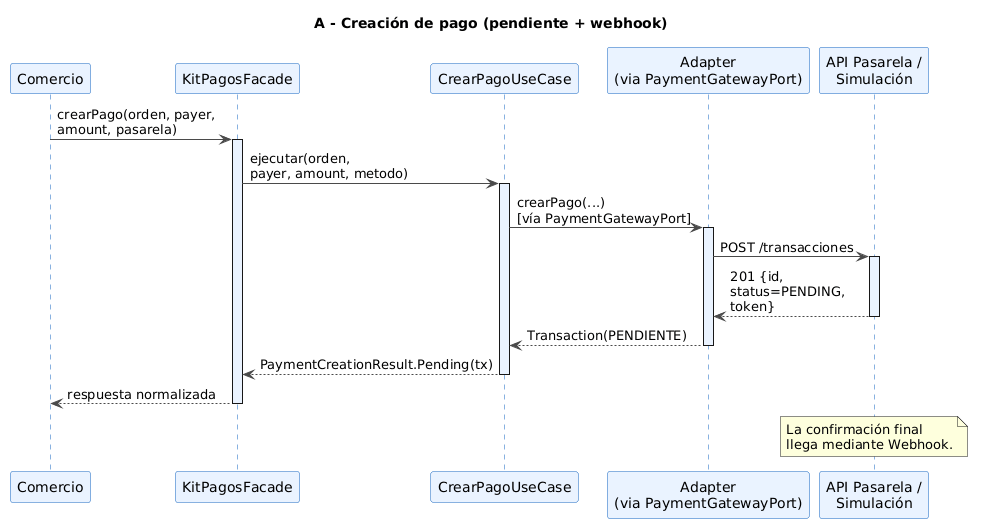
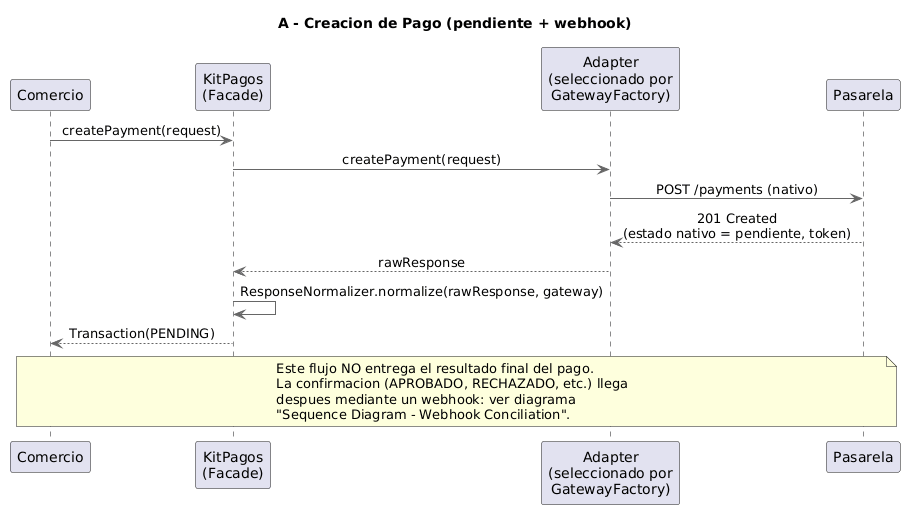
docs(architecture): regenerate stale SDK diagrams and log SAD gaps
Regenerate the hexagonal class diagram and the three SDK sequence
diagrams with PlantUML, replacing an obsolete design (CrearPagoUseCase,
WebhookController, KitPagosFacade, Order, Money, EstadoTransaccion)
that no longer matches sections 9 and 15 of the SAD or the current
Component/Domain Class diagrams. Keep the .puml sources under
diagrams-source/ so future edits don't require touching binary PNGs.
Add sad-inconsistencies.md, a running log of every discrepancy found
between SAD sections, SAD diagrams, and the codebase during the full
architecture review, with resolution status for each and what still
needs correcting in the source SAD document itself.
Sync layers-and-components.md and ubiquitous-language.md with the
decisions recorded there (facade method names, WebhookEvent, lean
SdkError shape, Transaction immutability).

diff --git a/docs/architecture/ubiquitous-language.md b/docs/architecture/ubiquitous-language.md
@@ -5,6 +5,8 @@
 > **Clasificación:** Documento técnico oficial. Fuente de verdad para adaptadores, contratos de interfaz y modelo de dominio.  
 > **Fuentes:** Documentación oficial de Wompi, PayU Latam, Mercado Pago y Kushki (Colombia).  
 > **Nota de integridad:** Los campos marcados como `N/A` indican ausencia documentada en la fuente oficial consultada. Los campos marcados como `⚠ PENDIENTE` requieren verificación directa en páginas cuyo contenido no fue recuperable por renderizado JavaScript.
+>
+> **Nota de vigencia:** Este documento se escribió antes de la reestructuración del dominio del SDK (ver `layers-and-components.md`). Los nombres de archivo de contrato citados en cada sección (`IRequestCrearPago.ts`, `IWebhookPayload.ts`, etc.) son conceptuales y no corresponden a archivos reales del repositorio; el contrato vigente es `src/application/ports/PaymentGatewayPort.ts`. El enum `EstadoTransaccion` mencionado en las tablas corresponde a `TransactionStatus`. Ver `sad-inconsistencies.md` (punto 11) para el detalle de esta sincronización pendiente.
 
 ---
 
@@ -52,7 +54,7 @@
 
 | Atributo SDK (Normalizado) | Tipo de Dato (TypeScript) | Descripción Conceptual (Contexto Colombiano) | Wompi (Nativo) | PayU Latam (Nativo) | Mercado Pago (Nativo) | Kushki (Nativo) | Regla de Transformación / Caso Borde (Para el Adaptador) |
 | :--- | :--- | :--- | :--- | :--- | :--- | :--- | :--- |
-| `sdkErrorCode` | `string` (union type literal) | Categoría técnica del fallo tipificada por el SDK. Este catálogo es una **creación del SDK** — no proviene de ninguna pasarela. Distingue fallos de infraestructura (red, credenciales, timeout) de rechazos de negocio (que se modelan en `EstadoTransaccion` y `codigoMotivo`). Catálogo canónico: `INVALID_CREDENTIALS \| GATEWAY_TIMEOUT \| CONNECTION_FAILED \| RATE_LIMIT_EXCEEDED \| INVALID_REQUEST \| RESOURCE_NOT_FOUND \| GATEWAY_SERVER_ERROR \| MALFORMED_RESPONSE \| WEBHOOK_SIGNATURE_INVALID \| UNSUPPORTED_OPERATION \| UNKNOWN_ERROR` | HTTP `422 Unprocessable Entity` → `INVALID_REQUEST`. El body del error incluye un array `messages` con objetos `{ param, type, value }` describiendo cada campo inválido. HTTP `401` → `INVALID_CREDENTIALS`. Timeout de red → `CONNECTION_FAILED`. No se documenta un catálogo explícito de códigos HTTP 4xx/5xx adicionales en la fuente consultada — ⚠ PENDIENTE verificación en referencia de errores completa de Wompi. | La API de PayU retorna siempre **HTTP 200** para respuestas de procesamiento — los errores se comunican en el campo `code` del body JSON (`"SUCCESS"` o `"ERROR"`) y en el campo `error` (string descriptivo). `code: "ERROR"` con campo `error` presente → mapear según contenido: credenciales inválidas → `INVALID_CREDENTIALS`; parámetros inválidos → `INVALID_REQUEST`; timeout de la petición HTTP → `GATEWAY_TIMEOUT`. HTTP `500` de la infraestructura de PayU → `GATEWAY_SERVER_ERROR`. | HTTP `400 Bad Request` → `INVALID_REQUEST`. HTTP `401 Unauthorized` → `INVALID_CREDENTIALS`. HTTP `404 Not Found` → `RESOURCE_NOT_FOUND`. HTTP `429 Too Many Requests` → `RATE_LIMIT_EXCEEDED`. HTTP `500 Internal Server Error` → `GATEWAY_SERVER_ERROR`. Body del error: `{ "status": integer, "error": "string", "message": "string", "cause": [{ "code": integer, "description": "string" }] }`. | Kushki retorna **HTTP 200** para transacciones aprobadas o rechazadas por el procesador. HTTP `4xx` solo para errores de autenticación o parámetros inválidos. Dos campos de error en la respuesta: `code` (string — código genérico de Kushki, presente siempre en errores de validación) y `processorError` (string — código del procesador bancario subyacente, presente solo si la transacción llegó al procesador). HTTP `401` → `INVALID_CREDENTIALS`. Body con `code` presente y sin `processorError` → `INVALID_REQUEST` (error de validación previa al procesador). ⚠ PENDIENTE: catálogo completo de `code` en `/co/getting-started/error-codes` no recuperable. | **Regla universal de mapeo HTTP:** `401` de cualquier pasarela → `INVALID_CREDENTIALS`. `429` → `RATE_LIMIT_EXCEEDED`. `404` → `RESOURCE_NOT_FOUND`. `400`/`422` → `INVALID_REQUEST`. `5xx` → `GATEWAY_SERVER_ERROR`. Timeout de `fetch`/`axios` (sin respuesta HTTP) → `CONNECTION_FAILED`. Fallo al parsear JSON → `MALFORMED_RESPONSE`. Firma de webhook inválida → `WEBHOOK_SIGNATURE_INVALID`. Operación no soportada (ej: polling de tarjeta en Kushki) → `UNSUPPORTED_OPERATION`. **PayU y Kushki (HTTP 200 siempre):** el adaptador debe leer el body completo y mapear al `sdkErrorCode` adecuado según el contenido de `code`/`error`, no según el status HTTP. **Implementación:** `class SdkError extends Error { constructor( public readonly code: SdkErrorCode, public readonly gateway: string, public readonly httpStatus: number \| null, public readonly originalError: unknown ) }`. El campo `originalError` es de tipo `unknown` (no `any`) para forzar type-guard explícito en el consumidor. |
+| `sdkErrorCode` | `string` (union type literal) | Categoría técnica del fallo tipificada por el SDK. Este catálogo es una **creación del SDK** — no proviene de ninguna pasarela. Distingue fallos de infraestructura (red, credenciales, timeout) de rechazos de negocio (que se modelan en `EstadoTransaccion` y `codigoMotivo`). Catálogo canónico: `INVALID_CREDENTIALS \| GATEWAY_TIMEOUT \| CONNECTION_FAILED \| RATE_LIMIT_EXCEEDED \| INVALID_REQUEST \| RESOURCE_NOT_FOUND \| GATEWAY_SERVER_ERROR \| MALFORMED_RESPONSE \| WEBHOOK_SIGNATURE_INVALID \| UNSUPPORTED_OPERATION \| UNKNOWN_ERROR` | HTTP `422 Unprocessable Entity` → `INVALID_REQUEST`. El body del error incluye un array `messages` con objetos `{ param, type, value }` describiendo cada campo inválido. HTTP `401` → `INVALID_CREDENTIALS`. Timeout de red → `CONNECTION_FAILED`. No se documenta un catálogo explícito de códigos HTTP 4xx/5xx adicionales en la fuente consultada — ⚠ PENDIENTE verificación en referencia de errores completa de Wompi. | La API de PayU retorna siempre **HTTP 200** para respuestas de procesamiento — los errores se comunican en el campo `code` del body JSON (`"SUCCESS"` o `"ERROR"`) y en el campo `error` (string descriptivo). `code: "ERROR"` con campo `error` presente → mapear según contenido: credenciales inválidas → `INVALID_CREDENTIALS`; parámetros inválidos → `INVALID_REQUEST`; timeout de la petición HTTP → `GATEWAY_TIMEOUT`. HTTP `500` de la infraestructura de PayU → `GATEWAY_SERVER_ERROR`. | HTTP `400 Bad Request` → `INVALID_REQUEST`. HTTP `401 Unauthorized` → `INVALID_CREDENTIALS`. HTTP `404 Not Found` → `RESOURCE_NOT_FOUND`. HTTP `429 Too Many Requests` → `RATE_LIMIT_EXCEEDED`. HTTP `500 Internal Server Error` → `GATEWAY_SERVER_ERROR`. Body del error: `{ "status": integer, "error": "string", "message": "string", "cause": [{ "code": integer, "description": "string" }] }`. | Kushki retorna **HTTP 200** para transacciones aprobadas o rechazadas por el procesador. HTTP `4xx` solo para errores de autenticación o parámetros inválidos. Dos campos de error en la respuesta: `code` (string — código genérico de Kushki, presente siempre en errores de validación) y `processorError` (string — código del procesador bancario subyacente, presente solo si la transacción llegó al procesador). HTTP `401` → `INVALID_CREDENTIALS`. Body con `code` presente y sin `processorError` → `INVALID_REQUEST` (error de validación previa al procesador). ⚠ PENDIENTE: catálogo completo de `code` en `/co/getting-started/error-codes` no recuperable. | **Regla universal de mapeo HTTP:** `401` de cualquier pasarela → `INVALID_CREDENTIALS`. `429` → `RATE_LIMIT_EXCEEDED`. `404` → `RESOURCE_NOT_FOUND`. `400`/`422` → `INVALID_REQUEST`. `5xx` → `GATEWAY_SERVER_ERROR`. Timeout de `fetch`/`axios` (sin respuesta HTTP) → `CONNECTION_FAILED`. Fallo al parsear JSON → `MALFORMED_RESPONSE`. Firma de webhook inválida → `WEBHOOK_SIGNATURE_INVALID`. Operación no soportada (ej: polling de tarjeta en Kushki) → `UNSUPPORTED_OPERATION`. **PayU y Kushki (HTTP 200 siempre):** el adaptador debe leer el body completo y mapear al `sdkErrorCode` adecuado según el contenido de `code`/`error`, no según el status HTTP. **Implementación vigente** (`src/domain/errors/SdkError.ts`): `class SdkError extends Error { constructor( public readonly code: SdkErrorCode, public readonly gateway: Gateway, public readonly originalPayload: unknown, message?: string ) }`. No incluye `httpStatus` ni `originalError` como campos separados; el payload nativo completo (que puede incluir el status HTTP si el adaptador lo agrega) se preserva en `originalPayload`, tipado como `unknown` para forzar un type-guard explícito en el consumidor. |
 | `friendlyMessage` | `string` | Texto claro y descriptivo en español asociado a cada `sdkErrorCode`. Diseñado para ser escrito en logs del servidor o mostrado en consolas de administración. **No es el mensaje para el usuario final** — eso es responsabilidad del comercio. Los mensajes son constantes definidas por el SDK, independientes de los mensajes nativos de cada pasarela. Los mensajes nativos se preservan en `originalError` del `SdkError`. | Los mensajes de error nativos de Wompi en el array `messages` del body `422` son técnicos y en inglés. El campo `status_message` de la transacción (ej: `"Transacción aprobada"`) es en español pero corresponde al estado de negocio, no a un error técnico de infraestructura. | El campo `error` en la raíz de la respuesta JSON de PayU contiene una descripción técnica del error en inglés. El campo `transactionResponse.responseMessage` contiene descripción del resultado en algunos escenarios (no un error técnico). Ninguno está diseñado como "mensaje amigable" para logs del comercio. | El campo `message` en el body de error HTTP estándar de Mercado Pago es técnico y en inglés (ej: `"Unauthorized"`, `"bad_request"`). El array `cause[].description` provee detalle específico por campo en errores de validación. | El campo `message` en la respuesta de error de Kushki y el campo `processorError` (descripción del rechazo del procesador) son técnicos. Algunos mensajes están en inglés, otros en español según el tipo de error. | **Catálogo de mensajes definido por el SDK** (independiente de la pasarela): `INVALID_CREDENTIALS` → `"Las credenciales de la pasarela son inválidas o han expirado. Verifique su API Key / Access Token."`. `GATEWAY_TIMEOUT` → `"La pasarela de pago no respondió dentro del tiempo límite configurado."`. `CONNECTION_FAILED` → `"No se pudo establecer conexión con la pasarela de pago. Verifique la conectividad de red."`. `RATE_LIMIT_EXCEEDED` → `"Se superó el límite de solicitudes permitidas. Implemente backoff exponencial antes de reintentar."`. `INVALID_REQUEST` → `"Los parámetros enviados a la pasarela contienen errores de validación. Consulte errorOriginal para el detalle específico."`. `RESOURCE_NOT_FOUND` → `"La transacción u orden no fue encontrada en el sistema de la pasarela."`. `GATEWAY_SERVER_ERROR` → `"La pasarela reportó un error interno. Reintente en unos momentos o consulte el status de la pasarela."`. `MALFORMED_RESPONSE` → `"La respuesta de la pasarela no pudo ser parseada. Consulte errorOriginal."`. `WEBHOOK_SIGNATURE_INVALID` → `"La firma del evento recibido es inválida. El evento fue descartado por seguridad."`. `UNSUPPORTED_OPERATION` → `"Esta operación no está soportada para la pasarela o método de pago seleccionado."`. `UNKNOWN_ERROR` → `"Error inesperado. Consulte el campo errorOriginal para diagnóstico."`. **Implementación:** `const SDK_ERROR_MESSAGES: Record<SdkErrorCode, string> = { ... }`. Los adaptadores consultan este diccionario centralizado — cambiar un mensaje no requiere modificar los cuatro adaptadores. |
 
 ---

diff --git a/docs/architecture/sad-inconsistencies.md b/docs/architecture/sad-inconsistencies.md
@@ -1,0 +1,95 @@
+# Registro de inconsistencias del SAD
+
+Este documento registra las discrepancias encontradas entre las distintas secciones y diagramas del Software Architecture Document (SAD), y entre el SAD y el código del repositorio. El SAD en sí (el archivo `.docx` en Google Drive) sigue siendo la fuente única de verdad del proyecto, pero varios de sus artefactos se redactaron en momentos distintos y no se sincronizaron entre ellos. Este archivo existe para que esas correcciones no se pierdan y se puedan aplicar directamente sobre el documento original.
+
+Cada fila indica el estado: **Resuelto** (ya se decidió y se aplicó en el código y en `layers-and-components.md`) o **Pendiente en el SAD** (la decisión ya se tomó, pero falta corregir el texto o los diagramas del documento original, algo que este agente no puede editar directamente porque vive fuera del repositorio).
+
+## 1. Nombres de los tres métodos públicos del facade
+
+**Encontrado:** El `Component Diagram - C4.png` del SDK y la sección 9.1.1 usan `createPayment()`, `getPaymentStatus()`, `validateWebhook()`. La sección 15.2 usa `createPayment(request)`, `getStatus(id)`, `verifyWebhook(payload, headers)`. El diagrama `Hexagonal architecture class diagram.png` (obsoleto, ver punto 7) usa `processWebhook()`.
+
+**Decisión:** Se adopta la versión que coincide en más artefactos: `createPayment()`, `getPaymentStatus()`, `validateWebhook()`.
+
+**Estado:** Resuelto en código (`KitPagos.ts`) y en `layers-and-components.md`. **Pendiente en el SAD:** corregir la sección 15.2 para que use estos mismos nombres.
+
+## 2. Forma de la clase `SdkError`
+
+**Encontrado:** El `Domain Class Diagram.png` muestra `SdkError` con `friendlyMessage`, `httpStatus`, `originalError` y `requestId`, además de `code` y `gateway`. La sección 15.1 solo define `code`, `gateway` y `originalPayload`.
+
+**Decisión:** Se mantiene la versión de la sección 15.1 (`code`, `gateway`, `originalPayload`), ya implementada.
+
+**Estado:** Resuelto en código. **Pendiente en el SAD:** corregir el `Domain Class Diagram.png` para que coincida con la sección 15.1, o justificar explícitamente por qué la clase real necesita los campos adicionales (si el equipo decide que sí los necesita más adelante, esta decisión debe revisarse).
+
+## 3. Mutabilidad de `Transaction` y campo `authorizationCode`
+
+**Encontrado:** El `Domain Class Diagram.png` muestra un método `updateStatus(...)` en `Transaction`, lo que sugiere una entidad mutable. La sección 9.1.8 menciona explícitamente el atributo `authorizationCode`, que no estaba implementado.
+
+**Decisión:** `Transaction` se mantiene inmutable. Cuando llega un webhook de conciliación, el `Response Normalizer` construye una instancia nueva en lugar de mutar la existente. El campo `authorizationCode` sí se incorpora, como atributo opcional fijado en el constructor.
+
+**Estado:** Resuelto en código. **Pendiente en el SAD:** quitar el método `updateStatus(...)` del `Domain Class Diagram.png` y aclarar en la sección 15.1 que la reconciliación por webhook se resuelve reconstruyendo la entidad, no mutándola.
+
+## 4. Mayúsculas y minúsculas en el enum `Gateway`
+
+**Encontrado:** `Gateway.ts` se implementó con valores en minúscula (`"wompi"`, `"payu"`, ...), mientras que `TransactionStatus`, `RejectionCategory` y `SdkErrorCode` usan mayúsculas, y el `Domain Class Diagram.png` muestra `WOMPI`, `PAYU`, `MERCADOPAGO`, `KUSHKI`.
+
+**Decisión:** Se corrige `Gateway.ts` a mayúsculas para mantener consistencia con el resto del vocabulario normalizado del dominio.
+
+**Estado:** Resuelto en código. No requiere cambios en el SAD, ya que el diagrama ya estaba correcto; el error estaba solo en la implementación.
+
+## 5. Plataforma de despliegue de la API de Simulación: Railway vs. Render
+
+**Encontrado:** Las secciones 8.1 y 8.2 (Vista de contenedores) afirman que la API de Simulación está desplegada en **Railway**. La sección 11.2 (Vista física, redactada en una sesión posterior de este mismo proyecto) dice **Render**, y las credenciales reales del equipo (`.env.example`) confirman Render.
+
+**Decisión:** Render es la plataforma correcta.
+
+**Estado:** Pendiente en el SAD. Hay que corregir las secciones 8.1 y 8.2 para que digan Render en lugar de Railway, y revisar si el `Container Diagram - C4.png` de la API de Simulación también menciona Railway en alguna etiqueta.
+
+## 6. Concepto `WebhookEvent` para satisfacer RF-04
+
+**Encontrado:** RF-04 exige que la validación de un webhook "retorne un evento normalizado" cuando la firma es válida. Ni la sección 9.1.7 ni la 15.1 definen ese evento; `WebhookVerifier` solo tenía `verify(...): boolean`. El único artefacto que mencionaba un `WebhookEvent` con `parseWebhook(): WebhookEvent` era el diagrama obsoleto del punto 7.
+
+**Decisión:** Se reintroduce `WebhookEvent` como concepto vigente del dominio. `WebhookVerifier` gana un segundo método público, `parse(payload, gateway): WebhookEvent`, y `KitPagos.validateWebhook(payload, headers)` ahora retorna `WebhookEvent` en lugar de `boolean`.
+
+**Estado:** Resuelto en código. **Pendiente en el SAD:** agregar `WebhookEvent` a la tabla de conceptos del dominio (sección 3) y actualizar la sección 15.1 para reflejar que `WebhookVerifier` ya no tiene un único método público, sino dos (`verify` y `parse`).
+
+## 7. Diagramas obsoletos: capa de Use Cases y Controller
+
+**Encontrado:** `Hexagonal architecture class diagram.png` y los tres diagramas de secuencia del SDK (`Sequence Diagram - Payment Creation.png`, `Sequence Diagram - Synchronous Payment.png`, `Sequence Diagram - Webhook Conciliation.png`) están dibujados contra un diseño anterior que incluía `CrearPagoUseCase`, `ConsultarEstadoUseCase`, `ProcesarWebhookUseCase`, `WebhookController`, un `PaymentController` REST, y conceptos que no existen en ningún otro lado del SAD vigente (`Order` como raíz de agregado, `Money` en vez de `Amount`, `EstadoTransaccion` en vez de `TransactionStatus`, `RejectionInfo` en vez de `RejectionReason`, y un cuarto nombre para el facade, `KitPagosFacade`, usado solo en el texto de la sección 10.1.1).
+
+**Decisión:** Se regeneran los 4 diagramas para reflejar el diseño final (facade directo, sin capa explícita de Use Cases ni Controller), consistente con las secciones 9 y 15 y con el `Component Diagram - C4.png` y el `Domain Class Diagram.png` vigentes.
+
+**Estado:** Resuelto (diagramas regenerados en esta misma sesión, ver `docs/architecture/SDK/`). **Pendiente en el SAD:** reemplazar las figuras 6, 8, 9 y 10 del documento por las versiones nuevas, y corregir el texto de la sección 10.1.1 que todavía menciona `KitPagosFacade`.
+
+## 8. `setup-and-structure.md` desactualizado
+
+**Encontrado:** Este documento describe `domain/enums/EstadoTransaccion.ts`, `domain/interfaces/IIntencionPago.ts`, `domain/errors/ErrorNormalizado.ts` y el facade en `application/KitPagos.ts`. Ninguno de estos nombres ni rutas coincide con la estructura vigente (`domain/entities`, `domain/value-objects`, `domain/errors`, `domain/services`, `application/ports`, `infrastructure/facade/KitPagos.ts`).
+
+**Estado:** Pendiente. Es el documento de arranque más antiguo del repositorio; se recomienda actualizarlo o marcarlo explícitamente como histórico y redirigir a `layers-and-components.md` como referencia vigente de estructura.
+
+## 9. Archivo de imagen suelto dentro del código fuente
+
+**Encontrado:** `sdk/src/Hexagonal.png` está ubicado dentro del árbol de código fuente del SDK, no en `docs/architecture/`.
+
+**Estado:** Pendiente. Se recomienda moverlo a `docs/architecture/SDK/` o eliminarlo si es una copia duplicada, para que no quede empaquetado dentro del artefacto publicado a npm.
+
+## 10. Sin framework de pruebas en `simulator-api`
+
+**Encontrado:** `sdk/package.json` ya tiene Jest configurado con un umbral de cobertura del 80%. `simulator-api/package.json` no tiene ningún framework de pruebas configurado, a pesar de que la API de Simulación es, según el propio SAD, el entorno principal de validación del proyecto durante la fase de evaluación.
+
+**Estado:** Pendiente. Se recomienda decidir el framework de pruebas para `simulator-api` antes de empezar a implementar sus endpoints.
+
+## 11. `ubiquitous-language.md` desalineado con la reestructuración del dominio
+
+**Encontrado:** El documento fue escrito antes de la reestructuración de `sdk/src/domain` y usa `EstadoTransaccion` en lugar de `TransactionStatus`, nombres de archivo de contrato conceptuales (`IRequestCrearPago.ts`, `IWebhookPayload.ts`, `IResponseConsultaPago.ts`) que no corresponden a `PaymentGatewayPort.ts`, y un snippet de `SdkError` con `httpStatus` y `originalError` que contradice la decisión tomada en el punto 2 de este documento (versión "lean": `code`, `gateway`, `originalPayload`).
+
+**Decisión:** Se mantiene la matriz de equivalencias por pasarela (Wompi/PayU/Mercado Pago/Kushki) tal como está, porque es investigación de campo valiosa y en gran parte independiente de la reestructuración del dominio. Se corrige puntualmente el snippet de `SdkError` y se agrega una nota de vigencia al inicio del documento.
+
+**Estado:** Parcialmente resuelto (nota de vigencia y snippet de `SdkError` corregidos). **Pendiente:** una pasada completa de reemplazo de `EstadoTransaccion` por `TransactionStatus` en las tablas, y decidir si vale la pena crear los archivos de contrato por flujo (creación, webhook, consulta, error) dentro de `application/ports/`, o si toda esa información debe vivir directamente como comentarios de implementación dentro de cada Adapter.
+
+## 12. `sdk/package.json` sin scripts reales y con licencia incorrecta
+
+**Encontrado:** El `package.json` del SDK tenía `"license": "ISC"`, contradiciendo la sección 1.2/2.1 del SAD y `setup-and-structure.md`, que exigen Apache 2.0 (y que ya está correctamente declarada en `simulator-api/package.json`). Además, el único script era `"test": "echo \"Error: no test specified\" && exit 1"`, un placeholder que falla siempre, a pesar de que Jest y `jest.config.js` ya estaban configurados; no existían scripts `build` ni `lint`.
+
+**Decisión:** Se corrige `license` a `Apache-2.0` y se agregan los scripts `build` (tsc), `test` (jest) y `lint` (eslint), ya que son los que documenta `setup-and-structure.md`.
+
+**Estado:** Resuelto parcialmente. `npm test` ahora ejecuta Jest de verdad, pero seguirá fallando ("No tests found") hasta que exista al menos un archivo `*.test.ts`, lo cual es el comportamiento esperado, no un bug. `npm run lint` seguirá fallando porque **no existe ningún archivo `eslint.config.js`** en el proyecto (ESLint 10 requiere flat config; no hay `@typescript-eslint/parser` ni `@typescript-eslint/eslint-plugin` instalados). Configurar ESLint correctamente (elegir el ruleset, instalar los paquetes de `@typescript-eslint`, y crear `eslint.config.js`) debe ser un issue explícito de la primera iteración, no un ajuste incidental.

diff --git a/docs/architecture/layers-and-components.md b/docs/architecture/layers-and-components.md
@@ -6,6 +6,8 @@
 > **Metodología:** Design Science Research (DSR)  
 > **Versión:** 1.0.0
 
+> Las discrepancias detectadas entre este documento, el SAD original y los diagramas C4 se registran en [`sad-inconsistencies.md`](./sad-inconsistencies.md), con su estado de resolución y las correcciones pendientes en el documento fuente.
+
 ---
 
 ## 1. Estructura de Directorios del Repositorio (`src/` y `api/`)
@@ -27,7 +29,8 @@ kit-pagos-colombia/
 │   │   │   ├── TransactionStatus.ts            <-- Enum: APPROVED, DECLINED, PENDING, EXPIRED, VOIDED, ERROR
 │   │   │   ├── RejectionCategory.ts            <-- Enum: INSUFFICIENT_FUNDS, INVALID_CARD_DATA, etc.
 │   │   │   ├── SdkErrorCode.ts                 <-- Enum: INVALID_CREDENTIALS, GATEWAY_TIMEOUT, etc.
-│   │   │   └── Gateway.ts                      <-- Enum: wompi, payu, mercadopago, kushki
+│   │   │   ├── Gateway.ts                      <-- Enum: WOMPI, PAYU, MERCADOPAGO, KUSHKI
+│   │   │   └── WebhookEvent.ts                 <-- Value Object: evento normalizado de webhook (RF-04)
 │   │   ├── errors/
 │   │   │   └── SdkError.ts                     <-- Excepción tipada unificada (code, gateway, originalPayload)
 │   │   └── services/
@@ -85,8 +88,8 @@ El SDK es el contenedor de mayor complejidad arquitectónica del sistema. Su dis
 
 - **Patrón Arquitectónico:** GoF Facade.
 - **Responsabilidad:** Es el punto de entrada único del SDK y el único componente que el desarrollador que consume el SDK instancia directamente.
-- **Métodos Públicos:** Expone tres métodos: `createPayment(request)`, `getStatus(id)` y `verifyWebhook(payload, headers)`.
-- **Comportamiento:** Oculta la complejidad interna del sistema detrás de una interfaz simple y predecible. Mantiene una referencia a `SDKConfigurator` y a `GatewayFactory`; antes de ejecutar cualquier operación consulta al Configurator para determinar la pasarela activa y sus credenciales, solicita al Factory la instancia del adaptador correspondiente, y envuelve la llamada resultante con `RetryHandler`. Retorna entidades `Transaction` normalizadas al desarrollador o excepciones `SdkError` tipadas en caso de fallo.
+- **Métodos Públicos:** Expone tres métodos: `createPayment(request)`, `getPaymentStatus(id)` y `validateWebhook(payload, headers)`. Estos nombres coinciden con el Component Diagram C4 y la sección 9.1.1 del SAD; la sección 15.2 usa nombres distintos (`getStatus`, `verifyWebhook`), inconsistencia registrada en `sad-inconsistencies.md` (punto 1).
+- **Comportamiento:** Oculta la complejidad interna del sistema detrás de una interfaz simple y predecible. Mantiene una referencia a `SDKConfigurator` y a `GatewayFactory`; antes de ejecutar cualquier operación consulta al Configurator para determinar la pasarela activa y sus credenciales, solicita al Factory la instancia del adaptador correspondiente, y envuelve la llamada resultante con `RetryHandler`. Retorna entidades `Transaction` normalizadas al desarrollador o excepciones `SdkError` tipadas en caso de fallo. `validateWebhook()` retorna un `WebhookEvent` en lugar de un booleano, para cumplir RF-04 (ver sección 2.10).
 
 ---
 
@@ -178,21 +181,23 @@ El SDK es el contenedor de mayor complejidad arquitectónica del sistema. Su dis
 ### 2.10. Webhook Verifier (`src/domain/services/WebhookVerifier.ts`)
 
 - **Patrón Arquitectónico:** Servicio de Dominio (DDD) sin estado propio.
-- **Responsabilidad:** Verifica la autenticidad de los webhooks entrantes de cada pasarela mediante el único método público `verify(payload, headers, secret, gateway): boolean`, delegando internamente en la lógica de verificación de firma correspondiente al Gateway recibido.
+- **Responsabilidad:** Verifica la autenticidad de los webhooks entrantes de cada pasarela mediante `verify(payload, headers, secret, gateway): boolean`, delegando internamente en la lógica de verificación de firma correspondiente al Gateway recibido.
 - **Implementación por pasarela:**
   - **Wompi:** SHA-256 sobre cadena de propiedades + timestamp + secreto. Implementación completa y validada.
   - **PayU:** MD5 o SHA-256 según configuración del comercio. Implementación suficiente para validar webhooks del simulador.
   - **Mercado Pago:** HMAC-SHA256 sobre headers y body. Implementación suficiente para validar webhooks del simulador.
   - **Kushki:** HMAC-SHA256. Implementación suficiente para validar webhooks del simulador.
-- **Integración:** Una vez verificada la firma, delega la actualización del estado de la `Transaction` con el evento recibido.
+- **Segundo método público — `parse(payload, gateway): WebhookEvent`:** Construye el evento normalizado (`WebhookEvent`) a partir del payload ya verificado, para cumplir RF-04 ("retornar un evento normalizado si la firma es válida"). Este método no está en la sección 15.1 del SAD, que describe a `WebhookVerifier` con un único método público; es una desviación deliberada registrada en `sad-inconsistencies.md` (punto 6), porque ningún otro componente vigente del SAD define cómo se construye ese evento.
+- **Integración:** `KitPagos.validateWebhook()` llama primero a `verify()` y, si la firma es válida, a `parse()`, devolviendo el `WebhookEvent` resultante al comercio (o un `SdkError(WEBHOOK_SIGNATURE_INVALID)` si la firma no es válida).
 
 ---
 
 ### 2.11. Transaction Entity (`src/domain/entities/Transaction.ts`)
 
 - **Responsabilidad:** Es la única clase con identidad propia del dominio del SDK.
-- **Encapsulamiento:** Se construye a partir de los objetos de valor `Amount`, `Currency`, `OrderReference`, `Payer` y `GatewayTransactionId`, además de referenciar el enum `TransactionStatus` que indica su estado y, opcionalmente, una instancia de `RejectionReason` cuando ese estado es `DECLINED`. Conserva además el campo `rawStatus`, que guarda el valor nativo devuelto por la pasarela antes de ser normalizado, con fines de auditoría.
+- **Encapsulamiento:** Se construye a partir de los objetos de valor `Amount`, `Currency`, `OrderReference`, `Payer` y `GatewayTransactionId`, además de referenciar el enum `TransactionStatus` que indica su estado y, opcionalmente, una instancia de `RejectionReason` cuando ese estado es `DECLINED`. Conserva además el campo `rawStatus`, que guarda el valor nativo devuelto por la pasarela antes de ser normalizado, con fines de auditoría, y el campo opcional `authorizationCode` (sección 9.1.8).
 - **Métodos de negocio:** Expone `isApproved()`, `isPending()` e `isFinal()`, que permiten al desarrollador tomar decisiones de negocio sin necesidad de comparar directamente contra los valores del enum ni depender de los estados crudos de ninguna pasarela.
+- **Inmutabilidad:** `Transaction` no expone ningún método de mutación. Cuando una transacción `PENDING` se concilia mediante webhook, el `Response Normalizer` construye una instancia nueva a partir del evento recibido, en lugar de mutar la instancia existente (ver `sad-inconsistencies.md`, punto 3).
 
 ---
 
@@ -344,7 +349,7 @@ La API de Simulación es un servicio Fastify sobre Node.js 18 cuya arquitectura 
 | **RF-01** Crear intención de pago | `KitPagos` → `GatewayFactory` → `Adapter` | `HTTPRouter` → `ScenarioEngine` → `GatewayMockFactory` |
 | **RF-02** Respuesta normalizada con Transaction | `ResponseNormalizer` → `Transaction Entity` | `GatewayMockFactory` (payload de referencia) |
 | **RF-03** Consultar estado de transacción | `KitPagos` → `Adapter` → `ResponseNormalizer` | `GatewayMockFactory` |
-| **RF-04** Validar firma de webhook | `WebhookVerifier` | `SignatureGenerator` → `WebhookTriggerEndpoint` |
+| **RF-04** Validar firma de webhook y retornar evento normalizado | `WebhookVerifier` (`verify()` + `parse()`) → `WebhookEvent` | `SignatureGenerator` → `WebhookTriggerEndpoint` |
 | **RF-05** Excepciones tipadas SdkError | `ErrorHandler` (`SdkError` + `SdkErrorCode`) | `ScenarioEngine` (escenario `ERROR_RED`) |
 | **RF-06** Cambiar pasarela sin modificar código | `SDKConfigurator` + `GatewayFactory` | N/A |
 | **RF-07** Reintentos con backoff exponencial | `RetryHandler` | `ScenarioEngine` (escenario `TIMEOUT`) |
